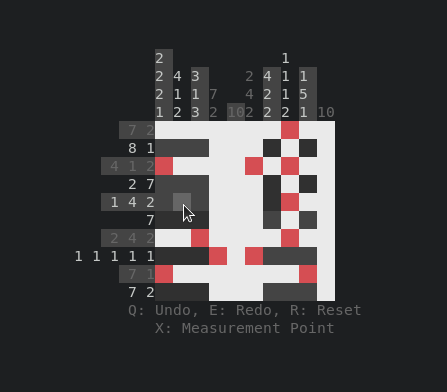
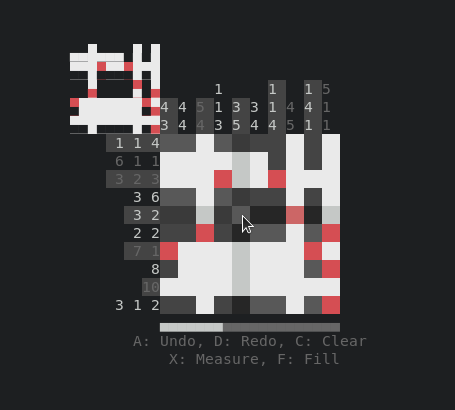
0.7.0

Changed region(s): [[0.1454, 0.0918, 0.8143, 0.8878]]

diff --git a/CHANGELOG.md b/CHANGELOG.md
@@ -4,6 +4,23 @@ Only versions published to the [registry](https://crates.io/crates/yayagram/vers
 
 <!--Order: Added, Changed, Fixed, Removed-->
 
+## 0.7.0 (2021-06-08)
+
+### Added
+
+* Add fill tool usable with `F`.
+* Display index on measured cells when highlighted.
+* Add picture of the grid on the top left.
+* Add progress bar on the bottom indicating progress of solving the grid.
+
+### Changed
+
+* Various optimizations.
+* Adjust grid background colors.
+* "Grid saved as" message is now shown as an alert instead of in the window title.
+* Whether the editor is toggled or not is shown in the window title.
+* Adjust help text at the bottom.
+
 ## 0.6.0 (2021-06-03)
 
 ### Added

diff --git a/README.md b/README.md
@@ -6,7 +6,7 @@ The game goes by many names: nonogram, picross, paint by numbers, griddlers, pic
 
 ![Showcase](showcase.png)
 
-*White signifies a filled cell, red signifies a crossed out cell.*
+*A randomized grid where white signifies a filled cell and red signifies a crossed out cell.*
 
 Playing it is as easy as:
 
